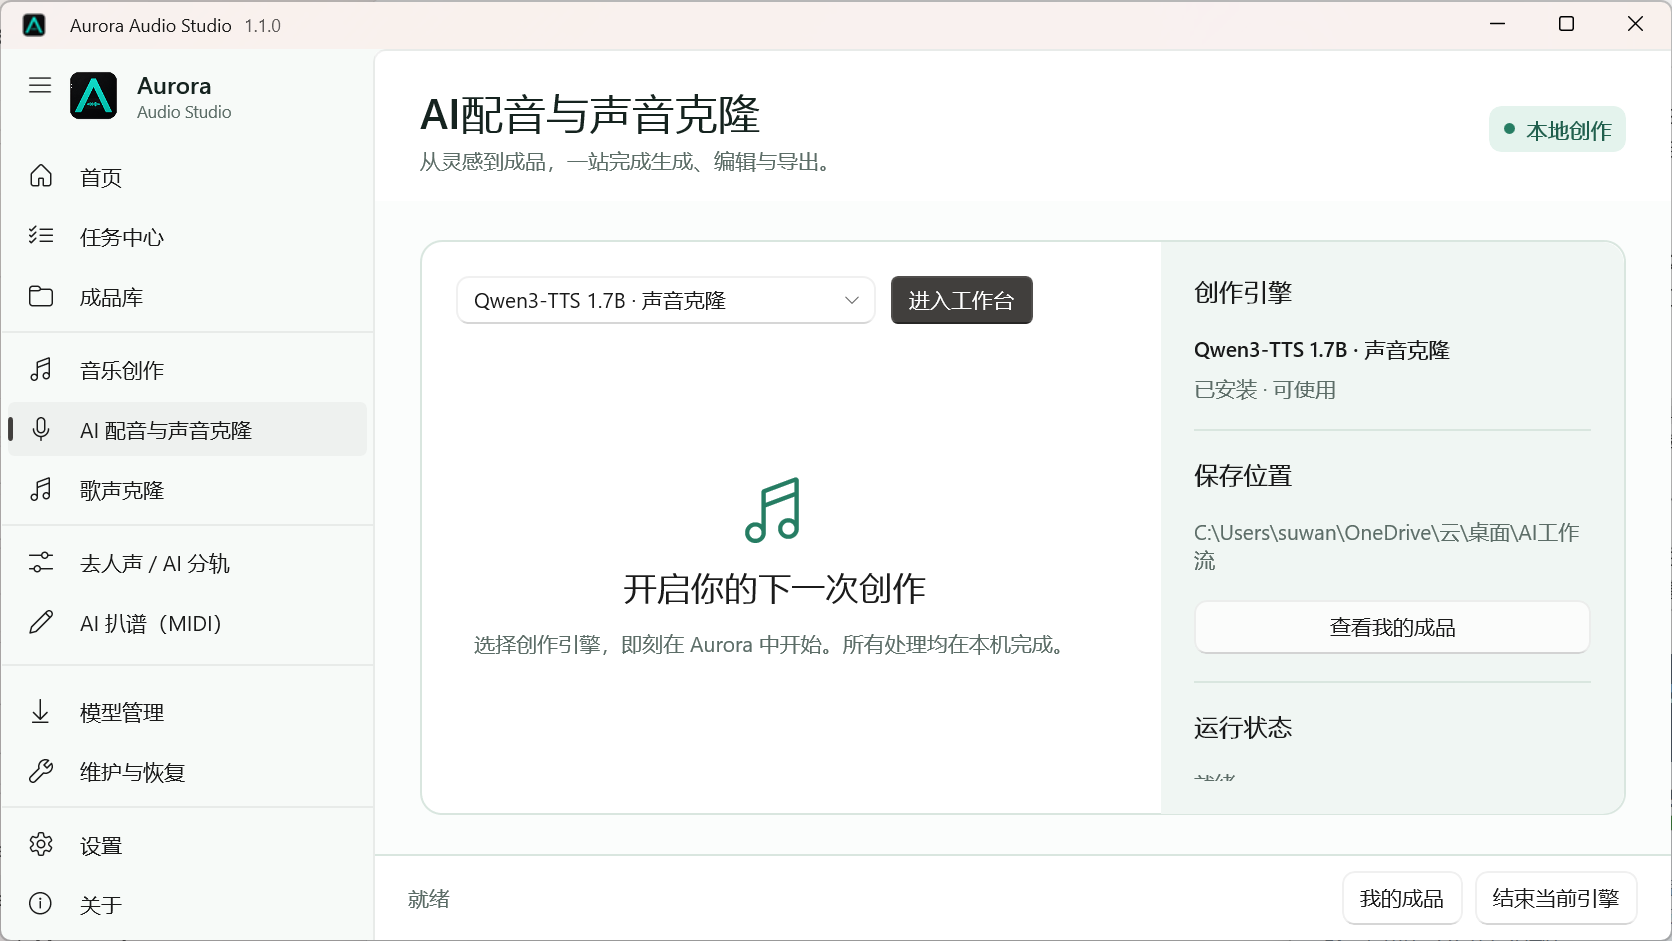
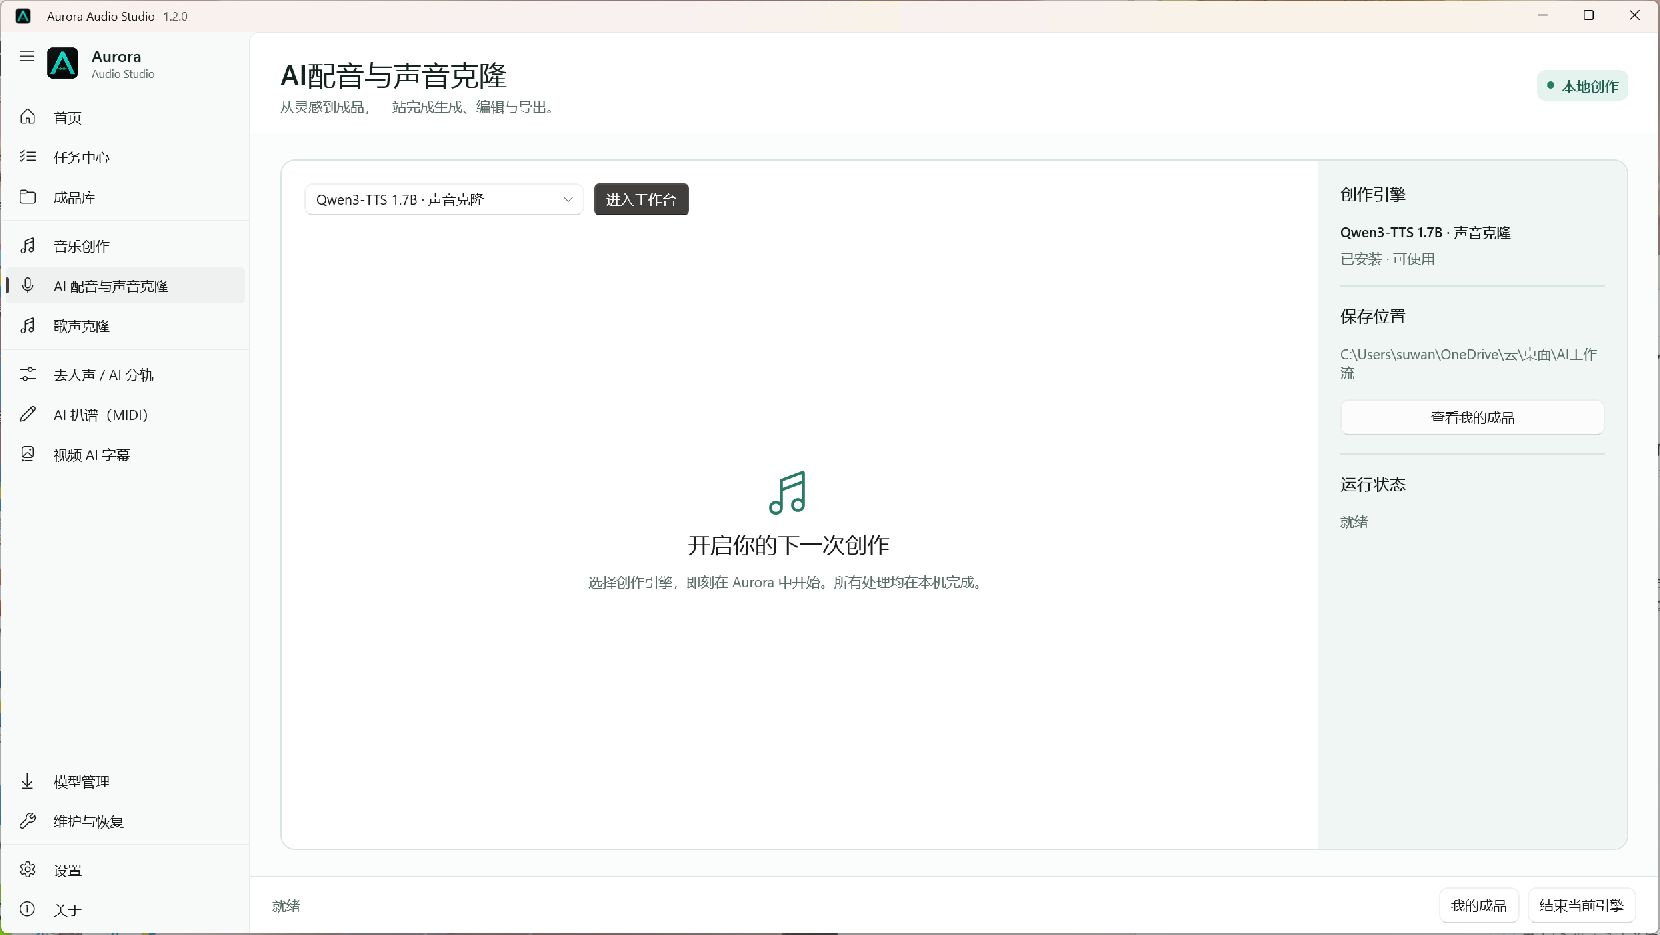
Release Aurora Audio Studio 1.2.0

diff --git a/docs/index.html b/docs/index.html
@@ -5,7 +5,7 @@
   <meta name="viewport" content="width=device-width,initial-scale=1,viewport-fit=cover">
   <meta name="theme-color" content="#f4faf7">
   <meta name="description" content="Aurora Audio Studio 是面向 Windows 的本地 AI 音频创作工作台，统一音乐、声音、分轨、MIDI 与字幕工作流。">
-  <meta property="og:title" content="Aurora Audio Studio 1.1">
+  <meta property="og:title" content="Aurora Audio Studio 1.2.0">
   <meta property="og:description" content="把模型、任务、项目与成品留在同一个本地音频工作台。">
   <meta property="og:image" content="https://swy2018.github.io/Aurora-Audio-Studio/assets/aurora-workbench-music.png">
   <title>Aurora Audio Studio | 本地音频创作工作台</title>
@@ -36,17 +36,17 @@
   <main id="content">
     <section class="hero shell" id="top">
       <div class="hero-copy reveal">
-        <p class="release"><span class="zh">Aurora Audio Studio 1.1</span><span class="en">Aurora Audio Studio 1.1</span></p>
+        <p class="release"><span class="zh">Aurora Audio Studio 1.2.0</span><span class="en">Aurora Audio Studio 1.2.0</span></p>
         <h1><span class="zh">让声音创作，<br>回到创作本身。</span><span class="en">Keep audio creation<br>focused on the work.</span></h1>
         <p class="hero-lead"><span class="zh">音乐生成、声音克隆、歌声转换、AI 分轨、MIDI 扒谱与视频字幕，集中在一套本地 Windows 工作台里。</span><span class="en">Music, voice cloning, singing conversion, stem separation, MIDI transcription, and subtitles in one local Windows workspace.</span></p>
         <div class="hero-actions">
-          <a class="button primary" href="https://github.com/swy2018/Aurora-Audio-Studio/releases/latest"><span class="zh">下载 1.1.0</span><span class="en">Download 1.1.0</span></a>
+          <a class="button primary" href="https://github.com/swy2018/Aurora-Audio-Studio/releases/latest"><span class="zh">下载 1.2.0</span><span class="en">Download 1.2.0</span></a>
           <a class="button secondary" href="https://github.com/swy2018/Aurora-Audio-Studio"><span class="zh">查看源代码</span><span class="en">View source</span></a>
         </div>
       </div>
       <figure class="hero-product reveal">
         <button class="image-button" type="button" data-lightbox="assets/aurora-workbench-music.png" aria-label="全屏查看 Aurora 音乐创作工作台">
-          <img src="assets/aurora-workbench-music.png" width="1672" height="941" alt="Aurora Audio Studio 音乐创作工作台完整界面" fetchpriority="high">
+          <img src="assets/aurora-workbench-music.png" width="1660" height="935" alt="Aurora Audio Studio 1.2.0 音乐创作工作台完整界面" fetchpriority="high">
         </button>
         <figcaption><span class="zh">真实工作台界面。点击图片可按原始尺寸查看。</span><span class="en">The real workspace. Open the image for a full-resolution view.</span></figcaption>
       </figure>
@@ -73,7 +73,7 @@
         </div>
         <p class="workspace-description"><span class="zh">输入创作描述，选择模型与时长，在嵌入式工作台里完成音乐生成。</span><span class="en">Describe the piece, choose a model and duration, then create inside the embedded music workspace.</span></p>
         <button class="image-button workspace-image" type="button" data-lightbox="assets/aurora-workbench-music.png" aria-label="全屏查看当前工作台">
-          <img src="assets/aurora-workbench-music.png" width="1672" height="941" alt="Aurora 音乐创作工作台" loading="lazy">
+          <img src="assets/aurora-workbench-music.png" width="1660" height="935" alt="Aurora 1.2.0 音乐创作工作台" loading="lazy">
         </button>
       </div>
     </section>
@@ -81,9 +81,9 @@
     <section class="workflow-section" id="workflow">
       <div class="shell workflow-grid">
         <div class="workflow-intro reveal">
-          <p class="eyebrow"><span class="zh">1.1 专业工作流</span><span class="en">Professional workflow in 1.1</span></p>
+          <p class="eyebrow"><span class="zh">1.2.0 专业工作流</span><span class="en">Professional workflow in 1.2.0</span></p>
           <h2><span class="zh">从一份素材，<br>到可追溯的成品。</span><span class="en">From source media<br>to traceable output.</span></h2>
-          <p><span class="zh">1.1 把批处理、媒体预览、实时任务状态和成品管理放进主流程，减少在窗口、目录和日志之间来回寻找。</span><span class="en">Version 1.1 brings batches, media preview, live task state, and result management into the main flow.</span></p>
+          <p><span class="zh">1.2.0 增加清晰的首次使用路径，并把批处理、媒体预览、实时任务状态和成品管理连成一条主流程。</span><span class="en">Version 1.2.0 adds a clear first-run path and keeps batches, media preview, live task state, and result management in one flow.</span></p>
         </div>
         <ol class="workflow-list reveal">
           <li><div><strong><span class="zh">拖入或批量选择素材</span><span class="en">Drop or batch-select media</span></strong><p><span class="zh">音频和视频在提交前即可预览，并保留大小与格式信息。</span><span class="en">Preview audio and video before submitting, with format and size visible.</span></p></div></li>
@@ -122,9 +122,9 @@
     <section class="download-section shell" id="download">
       <div class="download-inner reveal">
         <h2><span class="zh">把工作流留在一处。</span><span class="en">Keep the workflow in one place.</span></h2>
-        <p><span class="zh">Aurora Audio Studio 1.1 让批量素材、模型部署、任务进度与成品关系真正连成一条线。</span><span class="en">Aurora Audio Studio 1.1 connects batch media, model deployment, task progress, and results in one production line.</span></p>
+        <p><span class="zh">Aurora Audio Studio 1.2.0 用三步引导开启第一次创作，并让素材、模型、任务与成品始终连在一起。</span><span class="en">Aurora Audio Studio 1.2.0 starts the first creation in three steps and keeps media, models, tasks, and results connected.</span></p>
         <div class="hero-actions">
-          <a class="button primary" href="https://github.com/swy2018/Aurora-Audio-Studio/releases/latest"><span class="zh">下载 1.1.0 安装版</span><span class="en">Download 1.1.0</span></a>
+          <a class="button primary" href="https://github.com/swy2018/Aurora-Audio-Studio/releases/latest"><span class="zh">下载 1.2.0 安装版</span><span class="en">Download 1.2.0</span></a>
           <a class="button secondary" href="https://github.com/swy2018/Aurora-Audio-Studio/releases"><span class="zh">查看更新日志</span><span class="en">Release notes</span></a>
         </div>
       </div>

diff --git a/work/audio-studio/AuroraAudioStudio/MainPage.xaml b/work/audio-studio/AuroraAudioStudio/MainPage.xaml
@@ -56,7 +56,7 @@
                 <Grid Grid.Row="1">
                     <ScrollViewer x:Name="HomeView">
                         <Grid Padding="30,28" RowSpacing="26">
-                            <Grid.RowDefinitions><RowDefinition Height="Auto"/><RowDefinition Height="Auto"/><RowDefinition Height="*"/></Grid.RowDefinitions>
+                            <Grid.RowDefinitions><RowDefinition Height="Auto"/><RowDefinition Height="Auto"/><RowDefinition Height="Auto"/><RowDefinition Height="*"/></Grid.RowDefinitions>
                             <Border Padding="30" CornerRadius="14" Background="{ThemeResource AuroraAccentBrush}">
                                 <Grid ColumnSpacing="28"><Grid.ColumnDefinitions><ColumnDefinition/><ColumnDefinition Width="Auto"/></Grid.ColumnDefinitions>
                                     <StackPanel Spacing="10" MaxWidth="700" HorizontalAlignment="Left">
@@ -74,7 +74,19 @@
                                 <Button Grid.Column="3" Tag="transcription" Click="TemplateButton_Click" HorizontalAlignment="Stretch" HorizontalContentAlignment="Stretch" Padding="18,14"><Grid ColumnSpacing="12"><Grid.ColumnDefinitions><ColumnDefinition Width="Auto"/><ColumnDefinition Width="*"/></Grid.ColumnDefinitions><FontIcon Glyph="&#xE70F;" FontSize="20" VerticalAlignment="Center" Foreground="{ThemeResource AuroraAccentBrush}"/><StackPanel Grid.Column="1" VerticalAlignment="Center" Spacing="2"><TextBlock Text="音频转 MIDI" FontWeight="SemiBold"/><TextBlock Text="识别演奏与旋律" FontSize="12" TextTrimming="CharacterEllipsis" Foreground="{ThemeResource AuroraMutedBrush}"/></StackPanel></Grid></Button>
                                 <Button Grid.Column="4" Tag="subtitles" Click="TemplateButton_Click" HorizontalAlignment="Stretch" HorizontalContentAlignment="Stretch" Padding="18,14"><Grid ColumnSpacing="12"><Grid.ColumnDefinitions><ColumnDefinition Width="Auto"/><ColumnDefinition Width="*"/></Grid.ColumnDefinitions><FontIcon Glyph="&#xE8BA;" FontSize="20" VerticalAlignment="Center" Foreground="{ThemeResource AuroraAccentBrush}"/><StackPanel Grid.Column="1" VerticalAlignment="Center" Spacing="2"><TextBlock Text="生成字幕" FontWeight="SemiBold"/><TextBlock Text="视频语音到时间轴" FontSize="12" TextTrimming="CharacterEllipsis" Foreground="{ThemeResource AuroraMutedBrush}"/></StackPanel></Grid></Button>
                             </Grid>
-                            <Grid Grid.Row="2" ColumnSpacing="28"><Grid.ColumnDefinitions><ColumnDefinition Width="3*"/><ColumnDefinition Width="2*"/></Grid.ColumnDefinitions>
+                            <Border Grid.Row="2" Padding="20" Background="{ThemeResource AuroraPaneBrush}" CornerRadius="14">
+                                <Grid ColumnSpacing="18">
+                                    <Grid.ColumnDefinitions><ColumnDefinition/><ColumnDefinition Width="Auto"/><ColumnDefinition Width="Auto"/><ColumnDefinition Width="Auto"/></Grid.ColumnDefinitions>
+                                    <StackPanel Spacing="4" VerticalAlignment="Center">
+                                        <TextBlock Text="第一次使用？三步开始创作" FontSize="17" FontWeight="SemiBold"/>
+                                        <TextBlock Text="先确认保存位置，再按需安装一个模型；无需一次下载全部组件。" Foreground="{ThemeResource AuroraMutedBrush}" TextWrapping="Wrap"/>
+                                    </StackPanel>
+                                    <Button Grid.Column="1" Content="1. 设置保存位置" Tag="settings" Click="TemplateButton_Click" VerticalAlignment="Center"/>
+                                    <Button Grid.Column="2" Content="2. 按需安装模型" Tag="models" Click="TemplateButton_Click" VerticalAlignment="Center"/>
+                                    <Button Grid.Column="3" Content="3. 生成第一份字幕" Tag="subtitles" Click="TemplateButton_Click" VerticalAlignment="Center" Style="{StaticResource AccentButtonStyle}"/>
+                                </Grid>
+                            </Border>
+                            <Grid Grid.Row="3" ColumnSpacing="28"><Grid.ColumnDefinitions><ColumnDefinition Width="3*"/><ColumnDefinition Width="2*"/></Grid.ColumnDefinitions>
                                 <Grid><Grid.RowDefinitions><RowDefinition Height="Auto"/><RowDefinition Height="*"/></Grid.RowDefinitions>
                                     <TextBlock Text="最近项目" FontSize="20" FontWeight="SemiBold" Margin="2,0,0,12"/>
                                     <ListView x:Name="RecentProjectsList" Grid.Row="1" SelectionMode="None">

diff --git a/work/audio-studio/AuroraAudioStudio/Services/ReleaseNotesCatalog.cs b/work/audio-studio/AuroraAudioStudio/Services/ReleaseNotesCatalog.cs
@@ -8,6 +8,11 @@ public static class ReleaseNotesCatalog
 
     private static readonly Entry[] Entries =
     [
+        new(new(1, 2, 0), "2026-08-11", [
+            "• 首页新增三步首次使用引导，可直接设置保存位置、按需安装模型并开始第一个字幕任务。\n• README、官网与音乐人使用说明同步补充低门槛首次体验流程。\n• README 与官网的音乐、声音和字幕产品截图全部重新实拍为 1.2.0 当前界面。\n• 修正开发文档中的更新回归测试命令，并明确固定下载包模型清单的用途。",
+            "• 首頁新增三步首次使用引導，可直接設定儲存位置、按需安裝模型並開始第一個字幕任務。\n• README、官網與音樂人使用說明同步補充低門檻首次體驗流程。\n• README 與官網的音樂、聲音和字幕產品截圖全部重新拍攝為 1.2.0 當前介面。\n• 修正開發文件中的更新回歸測試指令，並說明固定下載套件模型清單的用途。",
+            "• Added a three-step first-use guide on Home for storage setup, on-demand model installation, and a first subtitle task.\n• Synchronized the README, website, and musician guide with a lower-friction first-run path.\n• Recaptured all Music, Voice, and Subtitle product screenshots for the current 1.2.0 interface across the README and website.\n• Fixed the documented update regression command and clarified the role of the verified fixed-package model manifest.",
+            "• ホームに、保存先設定、必要なモデル導入、最初の字幕タスクへ進む3ステップガイドを追加。\n• README、公式サイト、利用ガイドに初回体験フローを反映。\n• README と公式サイトの音楽、音声、字幕の製品画像を 1.2.0 の現行画面で再撮影。\n• 更新回帰テストのコマンドを修正し、固定パッケージ用モデルマニフェストの役割を明確化。"]),
         new(new(1, 1, 0), "2026-08-09", [
             "• 新增批量素材工作流，可多选或拖入音频与视频，并在提交前直接预览。\n• 新增快速草稿、推荐质量与高质量三档处理预设。\n• 任务中心接入引擎实时进度、当前阶段、持续时间与持久日志，并可暂停后续队列。\n• 新增成品库，按项目与时间汇总音轨、MIDI、字幕及其他结果。\n• 模型部署新增磁盘空间检查、下载进度与速度、取消、断点续传及安装完整性检查。\n• 全面重构官方网站，以原始比例清晰展示真实工作台并支持全屏查看。",
             "• 新增批次素材工作流程，可多選或拖入音訊與影片，並在提交前直接預覽。\n• 新增快速草稿、建議品質與高品質三種處理預設。\n• 任務中心接入引擎即時進度、目前階段、持續時間與持久記錄，並可暫停後續佇列。\n• 新增成品庫，依專案與時間彙整音軌、MIDI、字幕及其他結果。\n• 模型部署新增磁碟空間檢查、下載進度與速度、取消、續傳及安裝完整性檢查。\n• 全面重構官方網站，以原始比例清楚展示真實工作台並支援全螢幕查看。",

diff --git a/work/audio-studio/AuroraAudioStudio/Services/LocalizationService.cs b/work/audio-studio/AuroraAudioStudio/Services/LocalizationService.cs
@@ -78,6 +78,11 @@ public sealed class LocalizationService(SettingsService settings)
         ["拆分混音"] = ["拆分混音", "拆分混音", "Split a mix", "ミックスを分離"],
         ["音频转 MIDI"] = ["音频转 MIDI", "音訊轉 MIDI", "Audio to MIDI", "音声を MIDI へ"],
         ["生成字幕"] = ["生成字幕", "產生字幕", "Generate subtitles", "字幕を生成"],
+        ["第一次使用？三步开始创作"] = ["第一次使用？三步开始创作", "第一次使用？三步開始創作", "New here? Start in three steps", "初めてですか？3 ステップで開始"],
+        ["先确认保存位置，再按需安装一个模型；无需一次下载全部组件。"] = ["先确认保存位置，再按需安装一个模型；无需一次下载全部组件。", "先確認儲存位置，再按需安裝一個模型；無需一次下載全部元件。", "Choose storage, then install one model as needed. You do not need every component at once.", "保存先を確認し、必要なモデルを 1 つ導入します。すべてを一度に取得する必要はありません。"],
+        ["1. 设置保存位置"] = ["1. 设置保存位置", "1. 設定儲存位置", "1. Choose storage", "1. 保存先を設定"],
+        ["2. 按需安装模型"] = ["2. 按需安装模型", "2. 必要時安裝模型", "2. Install a model", "2. モデルを導入"],
+        ["3. 生成第一份字幕"] = ["3. 生成第一份字幕", "3. 產生第一份字幕", "3. Create first subtitles", "3. 最初の字幕を作成"],
         ["最近项目"] = ["最近项目", "最近專案", "Recent projects", "最近のプロジェクト"],
         ["正在进行"] = ["正在进行", "進行中", "In progress", "進行中"],
         ["查看全部任务"] = ["查看全部任务", "查看全部任務", "View all tasks", "すべてのタスク"],

diff --git a/work/audio-studio/AuroraAudioStudio/Services/UpdateService.cs b/work/audio-studio/AuroraAudioStudio/Services/UpdateService.cs
@@ -19,7 +19,7 @@ public sealed class UpdateService(SettingsService settings, LocalizationService 
 
     public async Task<AppUpdateInfo> CheckAsync(CancellationToken cancellationToken = default)
     {
-        var current = Assembly.GetExecutingAssembly().GetName().Version?.ToString(3) ?? "1.1.0";
+        var current = Assembly.GetExecutingAssembly().GetName().Version?.ToString(3) ?? "1.2.0";
         try
         {
             using var response = await client.GetAsync(LatestReleaseApi, cancellationToken);
@@ -203,7 +203,7 @@ public sealed class UpdateService(SettingsService settings, LocalizationService 
             DefaultRequestVersion = HttpVersion.Version11,
             DefaultVersionPolicy = HttpVersionPolicy.RequestVersionExact
         };
-        value.DefaultRequestHeaders.UserAgent.Add(new ProductInfoHeaderValue("Aurora-Audio-Studio", Assembly.GetExecutingAssembly().GetName().Version?.ToString(3) ?? "1.1.0"));
+        value.DefaultRequestHeaders.UserAgent.Add(new ProductInfoHeaderValue("Aurora-Audio-Studio", Assembly.GetExecutingAssembly().GetName().Version?.ToString(3) ?? "1.2.0"));
         value.DefaultRequestHeaders.Accept.Add(new MediaTypeWithQualityHeaderValue("application/vnd.github+json"));
         return value;
     }

diff --git a/work/audio-studio/AuroraAudioStudio.UpdateFlowTests/Program.cs b/work/audio-studio/AuroraAudioStudio.UpdateFlowTests/Program.cs
@@ -63,6 +63,9 @@ Require(notes101.All(x => !string.IsNullOrWhiteSpace(x.Body)), "Every 1.0.1 rele
 var notes110 = ReleaseNotesCatalog.CurrentAndRecent("1.1.0", "en-US");
 Require(notes110.Count == 5 && notes110[0].Version == "1.1.0" && notes110[^1].Version == "0.9.8", "Version 1.1.0 must show itself and its four previous releases.");
 Require(notes110.All(x => !string.IsNullOrWhiteSpace(x.Body)), "Every 1.1.0 release note must have localized content.");
+var notes120 = ReleaseNotesCatalog.CurrentAndRecent("1.2.0", "zh-CN");
+Require(notes120.Count == 5 && notes120[0].Version == "1.2.0" && notes120[^1].Version == "0.9.9", "Version 1.2.0 must show itself and its four previous releases.");
+Require(notes120.All(x => !string.IsNullOrWhiteSpace(x.Body)), "Every 1.2.0 release note must have localized content.");
 var validationNotes = ReleaseNotesCatalog.CurrentAndRecent("0.9.8.9", "zh-CN");
 Require(validationNotes[0].Version == "0.9.8" && validationNotes[0].IsCurrent, "The validation build must identify its nearest public release history as current.");
 

diff --git a/work/audio-studio/AuroraAudioStudio/MainWindow.xaml.cs b/work/audio-studio/AuroraAudioStudio/MainWindow.xaml.cs
@@ -22,7 +22,7 @@ public sealed partial class MainWindow : Window
         ExtendsContentIntoTitleBar = true;
         SetTitleBar(AppTitleBar);
         var version = Assembly.GetExecutingAssembly().GetName().Version;
-        var displayVersion = version is null ? "1.1.0" : version.Revision > 0 ? version.ToString(4) : version.ToString(3);
+        var displayVersion = version is null ? "1.2.0" : version.Revision > 0 ? version.ToString(4) : version.ToString(3);
         AppTitleBar.Subtitle = displayVersion;
 
         var versionedIcon = Path.Combine(AppContext.BaseDirectory, "Assets", $"AppIcon-{displayVersion}.ico");

diff --git a/work/audio-studio/AuroraAudioStudio/Services/ModelUpdateService.cs b/work/audio-studio/AuroraAudioStudio/Services/ModelUpdateService.cs
@@ -304,7 +304,7 @@ public sealed class ModelUpdateService(ModelCatalogService catalog, SettingsServ
     private static HttpClient CreateClient()
     {
         var value = new HttpClient { Timeout = TimeSpan.FromHours(8) };
-        value.DefaultRequestHeaders.UserAgent.Add(new ProductInfoHeaderValue("Aurora-Audio-Studio", Assembly.GetExecutingAssembly().GetName().Version?.ToString(3) ?? "1.1.0"));
+        value.DefaultRequestHeaders.UserAgent.Add(new ProductInfoHeaderValue("Aurora-Audio-Studio", Assembly.GetExecutingAssembly().GetName().Version?.ToString(3) ?? "1.2.0"));
         return value;
     }
 }

diff --git a/work/audio-studio/AuroraAudioStudio/MainPage.xaml.cs b/work/audio-studio/AuroraAudioStudio/MainPage.xaml.cs
@@ -636,7 +636,7 @@ public sealed partial class MainPage : Page
     private static string CurrentDisplayVersion()
     {
         var version = Assembly.GetExecutingAssembly().GetName().Version;
-        if (version is null) return "1.1.0";
+        if (version is null) return "1.2.0";
         return version.Revision > 0 ? version.ToString(4) : version.ToString(3);
     }
 

diff --git a/PRODUCT.md b/PRODUCT.md
@@ -43,7 +43,7 @@ Aurora unifies independently installed local audio models behind one bilingual d
 - Model selection, resumable on-demand deployment with disk checks and cancellation, model manager, output-folder selection, verified app updates, per-model update checks, VRAM release, diagnostics export, and four-language switching.
 - Closing Aurora stops the backends it launched.
 - A redesign must preserve every existing workflow, control, and product behavior unless the user explicitly approves a functional change.
-- The approved A workbench and dark rounded A-wave icon remain the visual baseline for version 1.1.0.
+- The approved A workbench and dark rounded A-wave icon remain the visual baseline for version 1.2.0.
 - The existing model suite remains the default. Optional engines never install automatically and do not create maintenance warnings when absent.
 - The installer defaults to Program Files, performs guarded in-place upgrades under the same AppId, and preserves user-owned data and the selected install location.
 - Interactive uninstall offers an explicit personal-configuration cleanup choice without touching models, projects, source media, or outputs.

diff --git a/CHANGELOG.md b/CHANGELOG.md
@@ -4,6 +4,22 @@
 
 This file documents notable changes in stable releases. Chinese release notes are listed first, followed by English.
 
+## 1.2.0 — 2026-08-11
+
+### 中文
+
+- 首页新增三步首次使用引导，可直接设置保存位置、按需安装模型并开始第一个字幕任务。
+- README、官方网站与音乐人使用说明同步补充低门槛首次体验流程。
+- README 与官方网站的音乐、声音和字幕三张产品截图全部重新实拍为 1.2.0 当前界面。
+- 修正更新回归测试命令，明确 `model-manifest.json` 仅用于带固定地址与 SHA-256 的下载包。
+
+### English
+
+- Added a three-step first-use guide on Home for storage setup, on-demand model installation, and a first subtitle task.
+- Synchronized the README, official website, and musician guide with a lower-friction first-run path.
+- Recaptured all Music, Voice, and Subtitle product screenshots for the current 1.2.0 interface across the README and website.
+- Fixed the update regression command and clarified that `model-manifest.json` is reserved for fixed packages with stable URLs and SHA-256 values.
+
 ## 1.1.0 — 2026-08-09
 
 ### 中文
